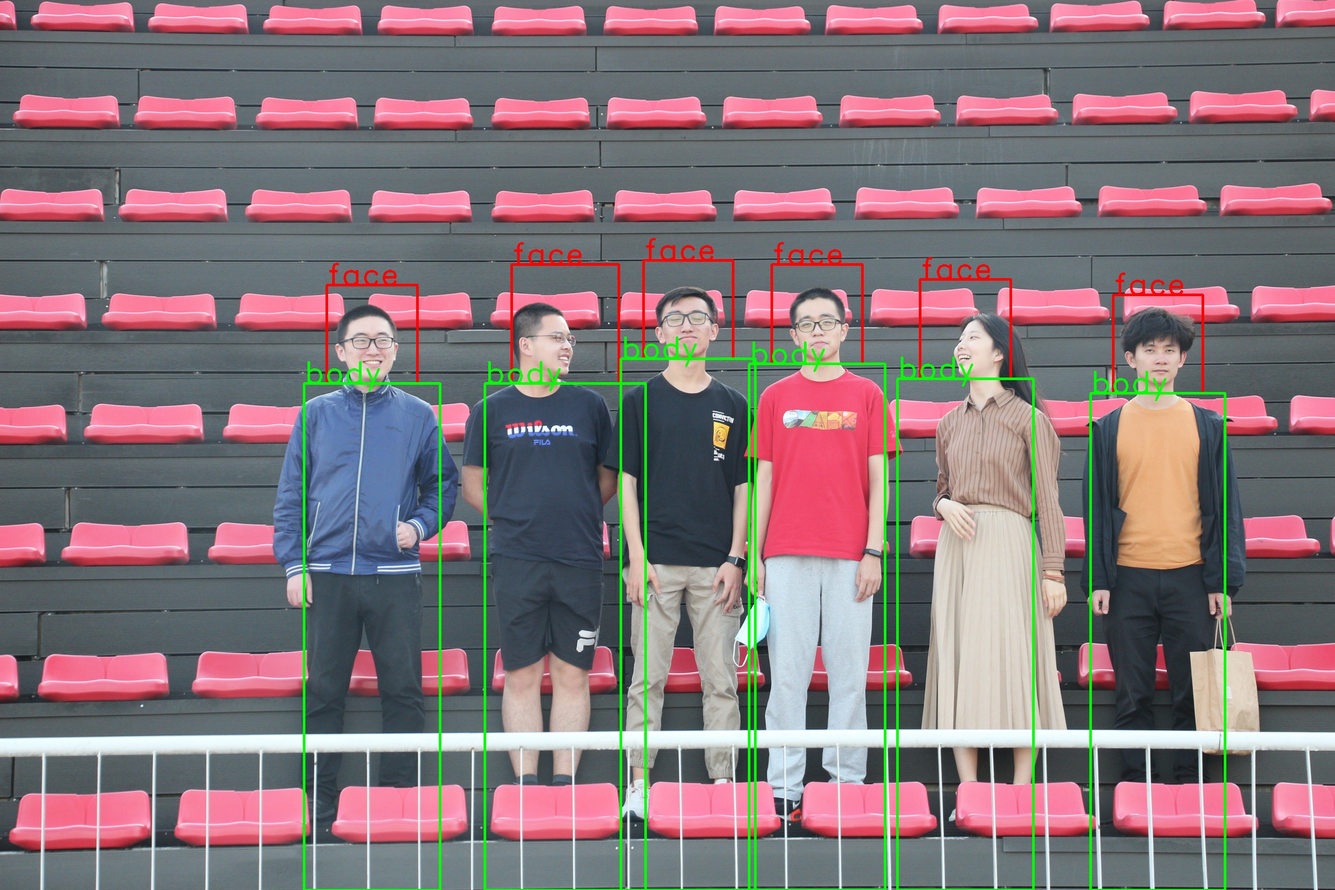
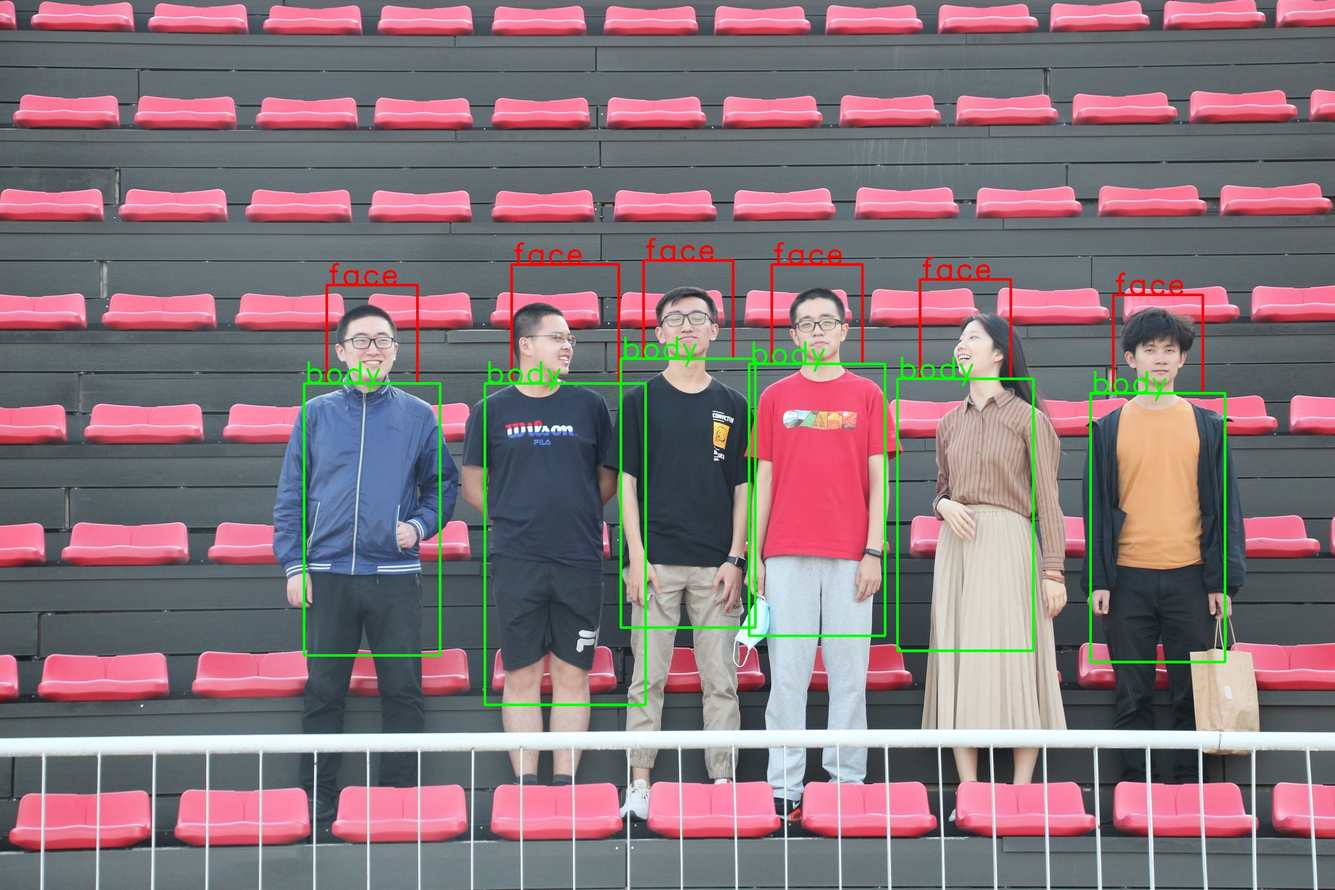
Fix body

diff --git a/code/Extract.py b/code/Extract.py
@@ -66,7 +66,8 @@ def extract(img, dialation=[0.5,1.0,0.5,0.2]):
             left = subject[0]-0.25*subject[2]
             top = subject[1]+subject[3]
             w = subject[2]*1.5 if left+w<width-1 else width
-            h = height - top
+            # h = height - top
+            h = 2 * w if 2 * w < height - top else height - top;
             upper_body_bounding_boxes.append([int(left),int(top),int(w),int(h)])
     #print(upper_body_bounding_boxes)
 
